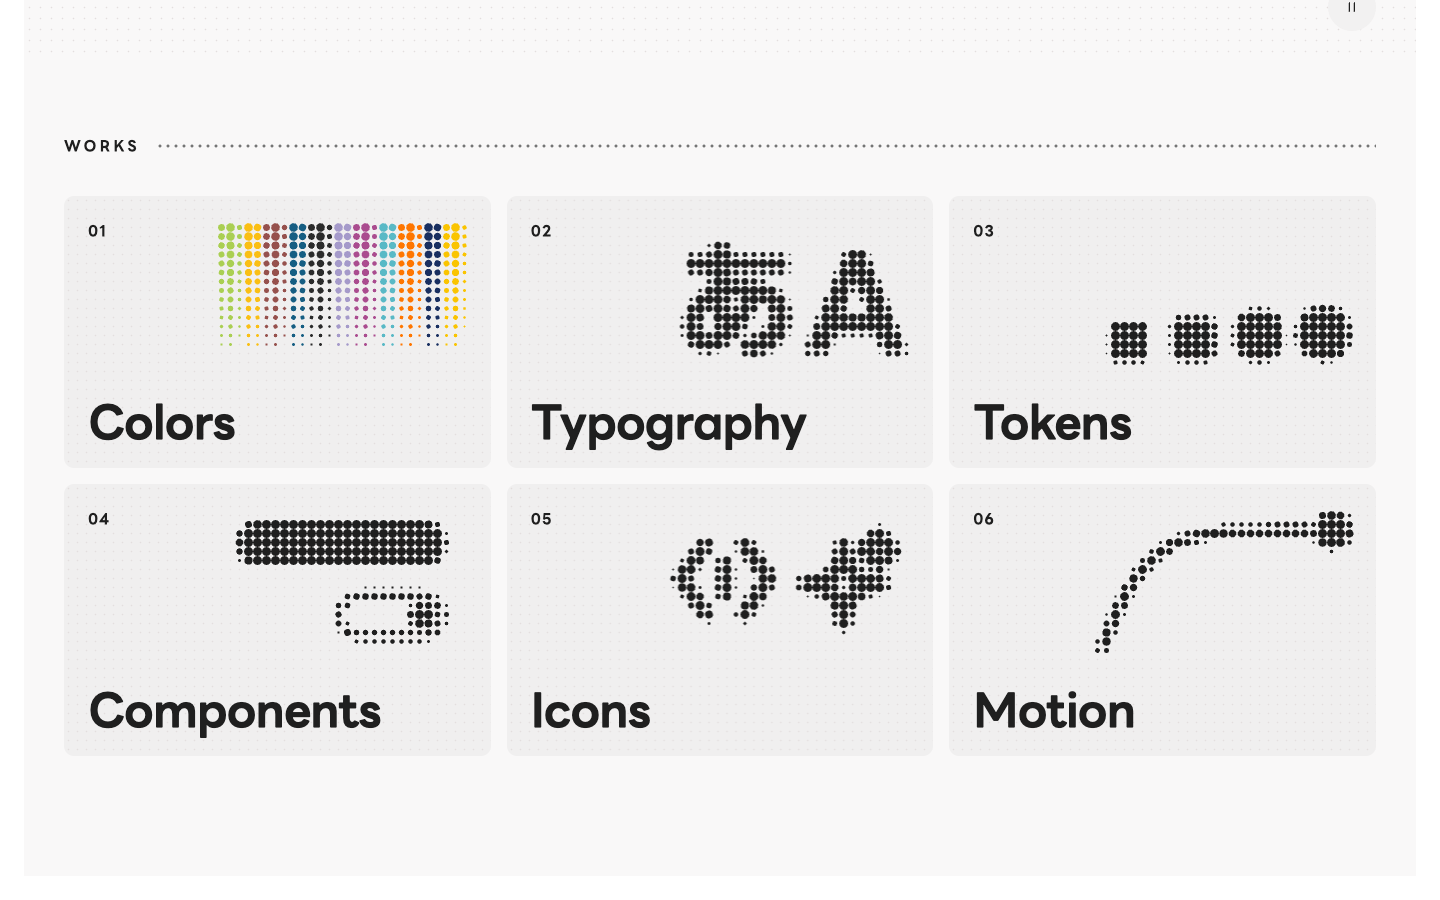
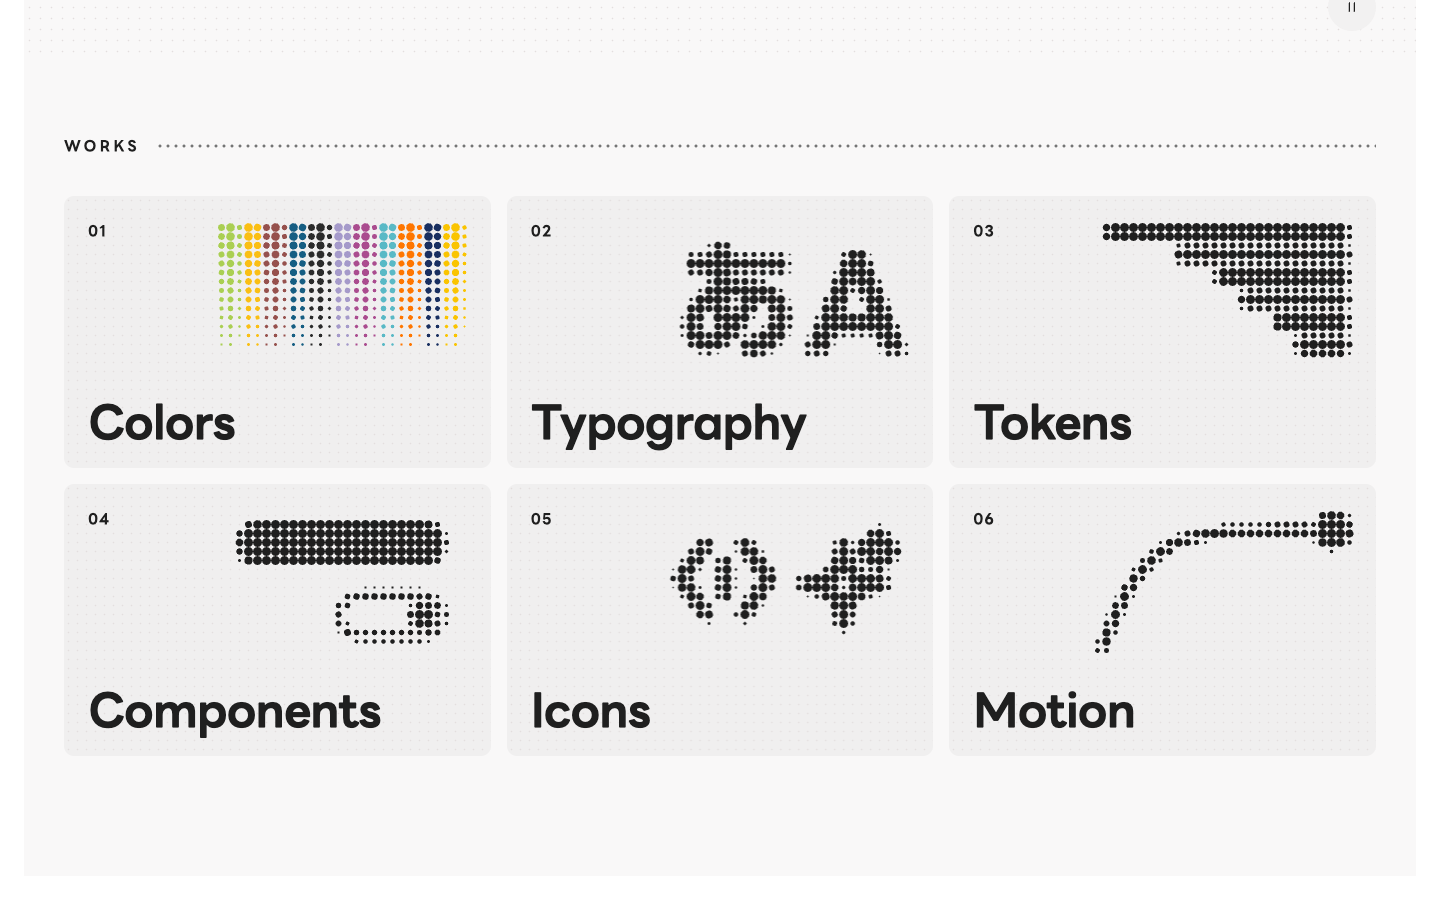
feat: dot-field の Tokens の図柄を余白の段（ladder）に決める ✨
利用者が 5 つの候補から ladder を選んだ。ほかの候補と ?tokens= の切り替えを消した。

Changed region(s): [[0.75, 0.2489, 0.9375, 0.4044]]

diff --git a/experiments/catalog-home-graphic/variants/dot-field/TileField.tsx b/experiments/catalog-home-graphic/variants/dot-field/TileField.tsx
@@ -47,41 +47,9 @@ const paintTypography: Painter = (ctx, box) => {
   ctx.fillText("あA", box.x + box.w, box.y + box.h * 0.92);
 };
 
-/** 角丸の token。xs から full へ、形と大きさを段で上げる。 */
-const paintTokens: Painter = (ctx, box) => {
-  const steps = [0.08, 0.2, 0.34, 0.5];
-  const gap = box.w * 0.05;
-  const unit = (box.w - gap * 3) / 4;
-  ctx.fillStyle = "#000";
-  steps.forEach((radius, index) => {
-    const side = Math.min(box.h, unit * (0.7 + index * 0.1));
-    const x = box.x + index * (unit + gap) + (unit - side) / 2;
-    const y = box.y + box.h - side;
-    roundRect(ctx, x, y, side, side, side * radius);
-    ctx.fill();
-  });
-};
-
-/** 波括弧。token の正本が JSON の値であることを、括弧に挟まれた点で見せる。 */
-const paintTokensBraces: Painter = (ctx, box) => {
-  const size = box.h * 1.15;
-  ctx.fillStyle = "#000";
-  ctx.font = `700 ${size}px "LINE Seed JP", "Hiragino Sans", sans-serif`;
-  ctx.textBaseline = "middle";
-  ctx.textAlign = "center";
-  const cy = box.y + box.h * 0.46;
-  const cx = box.x + box.w * 0.55;
-  const spread = box.w * 0.34;
-  ctx.fillText("{", cx - spread, cy);
-  ctx.fillText("}", cx + spread, cy);
-  ctx.beginPath();
-  ctx.arc(cx, cy + box.h * 0.04, box.h * 0.2, 0, Math.PI * 2);
-  ctx.fill();
-};
-
 /** 余白の段。space の値（100、200、400、600、1000、2000）の長さの棒を下から積む。 */
 const SPACE_STEPS = [0.25, 0.5, 1, 1.5, 2.5, 5];
-const paintTokensLadder: Painter = (ctx, box) => {
+const paintTokens: Painter = (ctx, box) => {
   const rows = SPACE_STEPS.length;
   const pitch = box.h / rows;
   const bar = pitch * 0.8;
@@ -94,60 +62,6 @@ const paintTokensLadder: Painter = (ctx, box) => {
     ctx.fill();
   });
 };
-
-/** 物差し。等間隔の目盛りに、4 本ごとの長い目盛りを付ける。値が格子で決まることを見せる。 */
-const paintTokensRuler: Painter = (ctx, box) => {
-  const ticks = 9;
-  const pitch = box.w / (ticks - 1);
-  ctx.strokeStyle = "#000";
-  ctx.lineCap = "round";
-  ctx.lineWidth = Math.max(12, pitch * 0.5);
-  const base = box.y + box.h * 0.95;
-  ctx.beginPath();
-  ctx.moveTo(box.x, base);
-  ctx.lineTo(box.x + box.w, base);
-  for (let i = 0; i < ticks; i++) {
-    const x = box.x + i * pitch;
-    const height = i % 4 === 0 ? box.h * 0.9 : i % 2 === 0 ? box.h * 0.55 : box.h * 0.32;
-    ctx.moveTo(x, base);
-    ctx.lineTo(x, base - height);
-  }
-  ctx.stroke();
-};
-
-/** 入れ子の枠。余白の token で内側へ詰めていく箱を重ね、中心に点を置く。 */
-const paintTokensNested: Painter = (ctx, box) => {
-  const side = Math.min(box.h * 1.05, box.w);
-  const x0 = box.x + box.w - side;
-  const y0 = box.y + (box.h - side) / 2;
-  ctx.strokeStyle = "#000";
-  ctx.lineWidth = Math.max(7, side * 0.06);
-  const insets = [0, 0.16, 0.3];
-  insets.forEach((inset, index) => {
-    const d = side * inset + ctx.lineWidth / 2;
-    const w = side - d * 2;
-    roundRect(ctx, x0 + d, y0 + d, w, w, w * (0.12 + index * 0.08));
-    ctx.stroke();
-  });
-  ctx.fillStyle = "#000";
-  ctx.beginPath();
-  ctx.arc(x0 + side / 2, y0 + side / 2, side * 0.1, 0, Math.PI * 2);
-  ctx.fill();
-};
-
-// 比較用の候補。runner の URL に ?tokens=<id> を付けると差し替わる。利用者が選んだら残りを消す。
-const TOKEN_PAINTERS: Record<string, Painter> = {
-  radius: paintTokens,
-  braces: paintTokensBraces,
-  ladder: paintTokensLadder,
-  ruler: paintTokensRuler,
-  nested: paintTokensNested,
-};
-
-function tokensPainter(): Painter {
-  const id = new URLSearchParams(window.location.search).get("tokens") ?? "radius";
-  return TOKEN_PAINTERS[id] ?? paintTokens;
-}
 
 /** 部品。塗りの pill の Button と、つまみの付いたスイッチ。 */
 const paintComponents: Painter = (ctx, box) => {
@@ -230,7 +144,7 @@ const paintMotion: Painter = (ctx, box) => {
 const PAINTERS: Record<HomeTopic["id"], Painter> = {
   colors: paintColors,
   typography: paintTypography,
-  tokens: (ctx, box) => tokensPainter()(ctx, box),
+  tokens: paintTokens,
   components: paintComponents,
   icons: paintIcons,
   motion: paintMotion,
